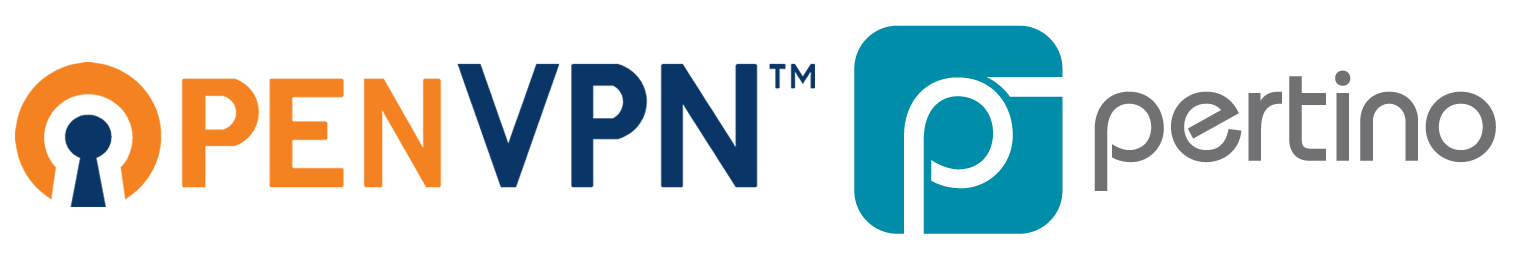
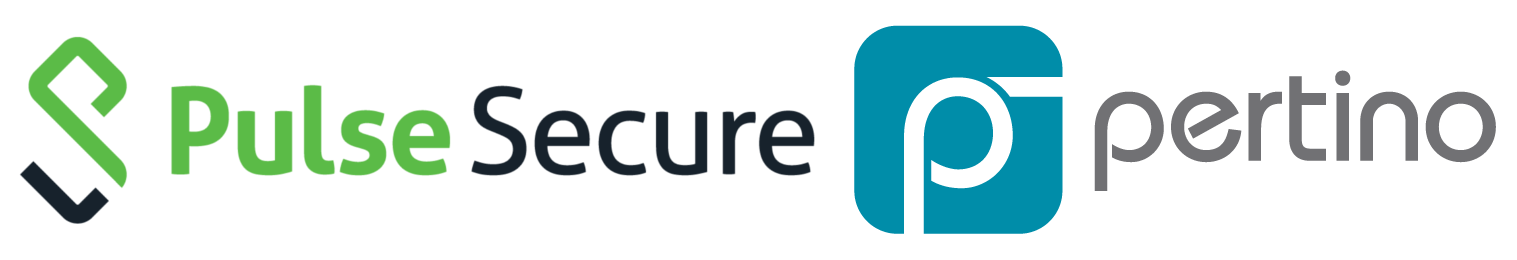
Update alternative

Changed region(s): [[0.0, 0.1231, 0.5577, 0.8615]]

diff --git a/index.html b/index.html
@@ -118,7 +118,7 @@ header_class: header-top
       </div>
       <div class="row">
         <div class="item feature-desc google-desc col-md-12 col-sm-12 col-xs-12">
-          <p>Pritunl is the best open source alternative to proprietary commercial vpn products such as OpenVPN Access Server and Pertino. Create larger cloud vpn networks supporting thousands of concurrent users and get more control over your vpn server without any per-user pricing.</p>
+          <p>Pritunl is the best open source alternative to proprietary commercial vpn products such as Pulse Secure and Pertino. Create larger cloud vpn networks supporting thousands of concurrent users and get more control over your vpn server without any per-user pricing.</p>
         </div>
       </div>
       <div class="row customers">
@@ -148,7 +148,7 @@ header_class: header-top
             <img src="img/pritunl_diagram_free.png" alt=""/>
           </div>
           <h3 class="title">Free to Use</h3>
-          <p>Free and open source alternative to OpenVPN Access Server and Pertino. No registration or credit card necessary.</p>
+          <p>Free and open source alternative to Pulse Secure and Pertino. No registration or credit card necessary.</p>
         </div>
         <div class="item col-md-4 col-sm-4 col-xs-12">
           <div class="list-img">
